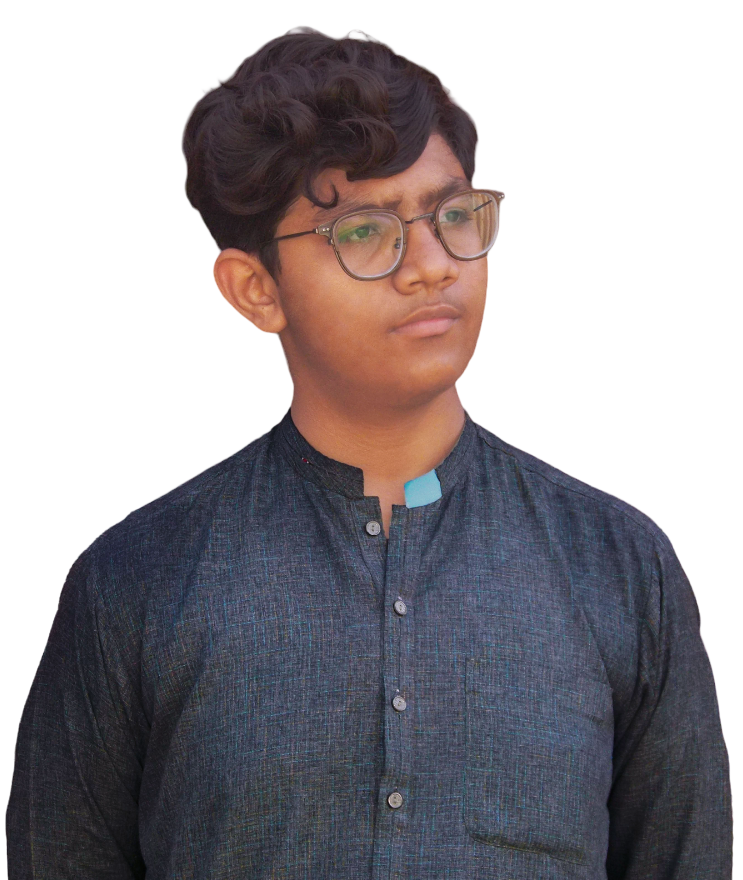
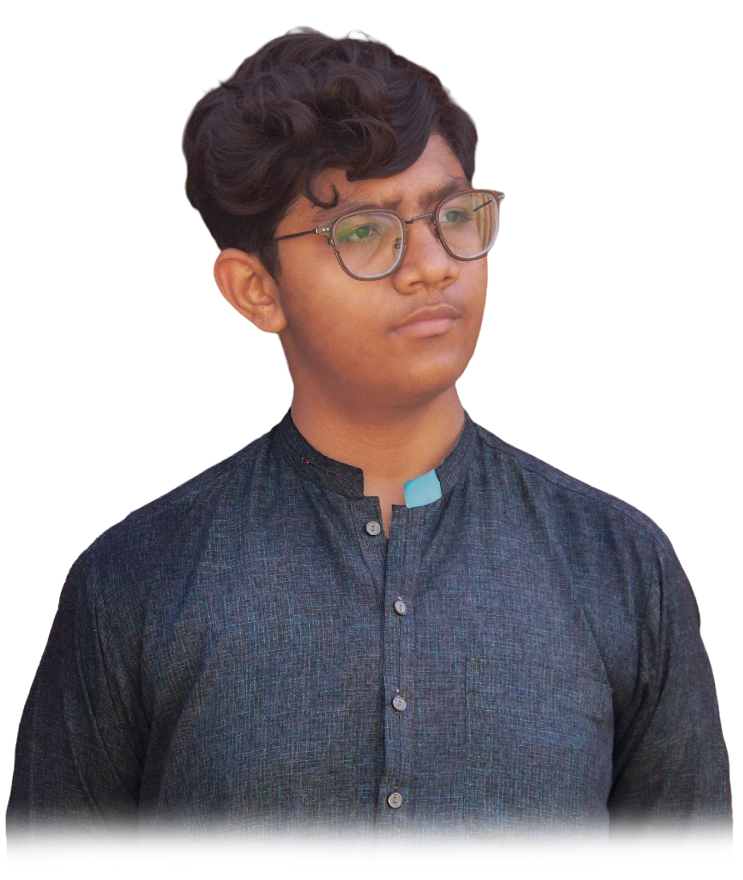
6:02

Changed region(s): [[0.0, 0.9205, 0.9906, 1.0]]

diff --git a/index2.html b/index2.html
@@ -28,26 +28,32 @@
         body {
             overflow-x: hidden;
             overflow-y: auto;
-            min-height: 100%;
+            min-height: 90vh;
             font-family: "Antonio", sans-serif !important;
-            color: #202020 !important;
-            background-color: rgb(221, 210, 195);
+            color: #0C0519 !important;
+            background-color: #FEFAE0;
         }
 
         .contant {
             opacity: 0;
             scale: 0.5;
+            height: 90vh;
         }
 
         .navbar {
-            z-index: 1;
+            z-index: 999;
+            background: #ffffff00;
+            backdrop-filter: blur(4px);
+            -webkit-backdrop-filter: blur(4px);
+            border: 1px solid #ffffff4d;
+            height: 10vh;
         }
 
         #counter {
             font-size: 150px;
             font-weight: 800;
             font-family: "Rubik Mono One", monospace;
-            color: #dfdfdf;
+            color: #BC6C25;
         }
 
         .box {
@@ -62,7 +68,7 @@
         .box1 {
             width: 100vw;
             height: 50%;
-            background-color: #202020;
+            background-color: #0C0519;
             position: absolute;
             top: 0;
             left: 0;
@@ -71,7 +77,7 @@
         .box2 {
             width: 100vw;
             height: 50%;
-            background-color: #202020;
+            background-color: #0C0519;
             position: absolute;
             bottom: 0;
             left: 0;
@@ -95,7 +101,7 @@
 
         .center-me {
             position: absolute;
-            top: 0;
+            bottom: 0;
             left: 0;
             width: 100%;
             height: 100%;
@@ -119,10 +125,7 @@
             height: 70%;
             object-fit: contain;
             transition: all 0.3s ease;
-        }
-
-        .image .image2 {
-            opacity: 0;
+            z-index: 1;
         }
 
         .head-text {
@@ -130,12 +133,12 @@
             font-size: 7vmax;
             letter-spacing: 1px;
             line-height: 8rem;
-            color: #f5a834;
+            color: #BC6C25;
             position: relative;
         }
 
         .main-color {
-            color: #f5a834 !important;
+            color: #BC6C25 !important;
         }
 
         .glass-card {
@@ -187,7 +190,7 @@
         }
 
         .hello-ico {
-            filter: drop-shadow(0px 0px 8px #202020);
+            filter: drop-shadow(0px 0px 8px #0C0519);
         }
     </style>
 </head>
@@ -223,18 +226,17 @@
                 </div>
             </div>
         </nav>
-        <div class="container py-2">
+        <div class="container contant py-2">
             <div class="heading d-flex flex-column justify-content-center">
                 <h1 class="fs-3 fw-light text-center z-3 my-4 py-2"><span class="fs-1 hello-ico magnet">👋</span>, my
                     name
                     is <span class="hasan magnet fs-1">Hasan
                         Raza</span> and I am a <span class="hasan fs-1">Freelancer</span></h1>
-                <h1 class="head-text text-center">Webdeveloper</h1>
-                <h1 class="head-text text-center">&Designer</h1>
+                <h1 class="head-text text-center" style="--content: 'Webdeveloper';">Webdeveloper</h1>
+                <h1 class="head-text text-center" style="--content: '&Designer';">&Designer</h1>
                 <div class="center-me">
                     <div class="image">
-                        <img class="image1" src="./Open Peeps - Bust.png" alt="">
-                        <img class="image2" src="./hasan.png" alt="">
+                        <img src="./hasan.png" alt="">
                     </div>
                 </div>
                 <div class="myCard glass-card rounded-4 p-4 layer shadow-sm" style="transform: rotate(-15deg);">
@@ -282,6 +284,7 @@
             var interval = setInterval(function () {
                 if (progress < 100) {
                     progress += 100 / intervalSteps; // Increment based on the total loading time
+                    progress = Math.min(progress, 100);
                     counter.innerHTML = Math.round(progress) + '%'; // Round the progress to nearest integer
                 } else {
                     clearInterval(interval); // Stop counting at 100%
@@ -353,20 +356,6 @@
             skew: true,
             ease: "cubic-bezier(0.23, 1, 0.320, 1)",
             duration: 0.3,
-        });
-
-        const image1 = document.querySelector('.image1');
-        const image2 = document.querySelector('.image2');
-
-        // Add hover effect using GSAP
-        document.querySelector('.image').addEventListener('mouseenter', () => {
-            gsap.to(image1, { duration: 0.5, opacity: 0, ease: "power4.out" });
-            gsap.to(image2, { duration: 0.5, opacity: 1, ease: "power4.out" });
-        });
-
-        document.querySelector('.image').addEventListener('mouseleave', () => {
-            gsap.to(image1, { duration: 0.5, opacity: 1, ease: "power4.out" });
-            gsap.to(image2, { duration: 0.5, opacity: 0, ease: "power4.out" });
         });
 
         Shery.makeMagnet(".magnet");

diff --git a/index.html b/index.html
@@ -15,7 +15,7 @@
 <body>
     <nav>
         <div class="left">
-            <h5 class="nlink magnet">HASAN RAZA</h5>
+            <h5 class="nlink magnet"><a class="nav-item" href="./index2.html">HASAN RAZA</a></h5>
         </div>
         <div class="center">
             <a href="#first"><h5 class="nlink">Home</h5></a>
